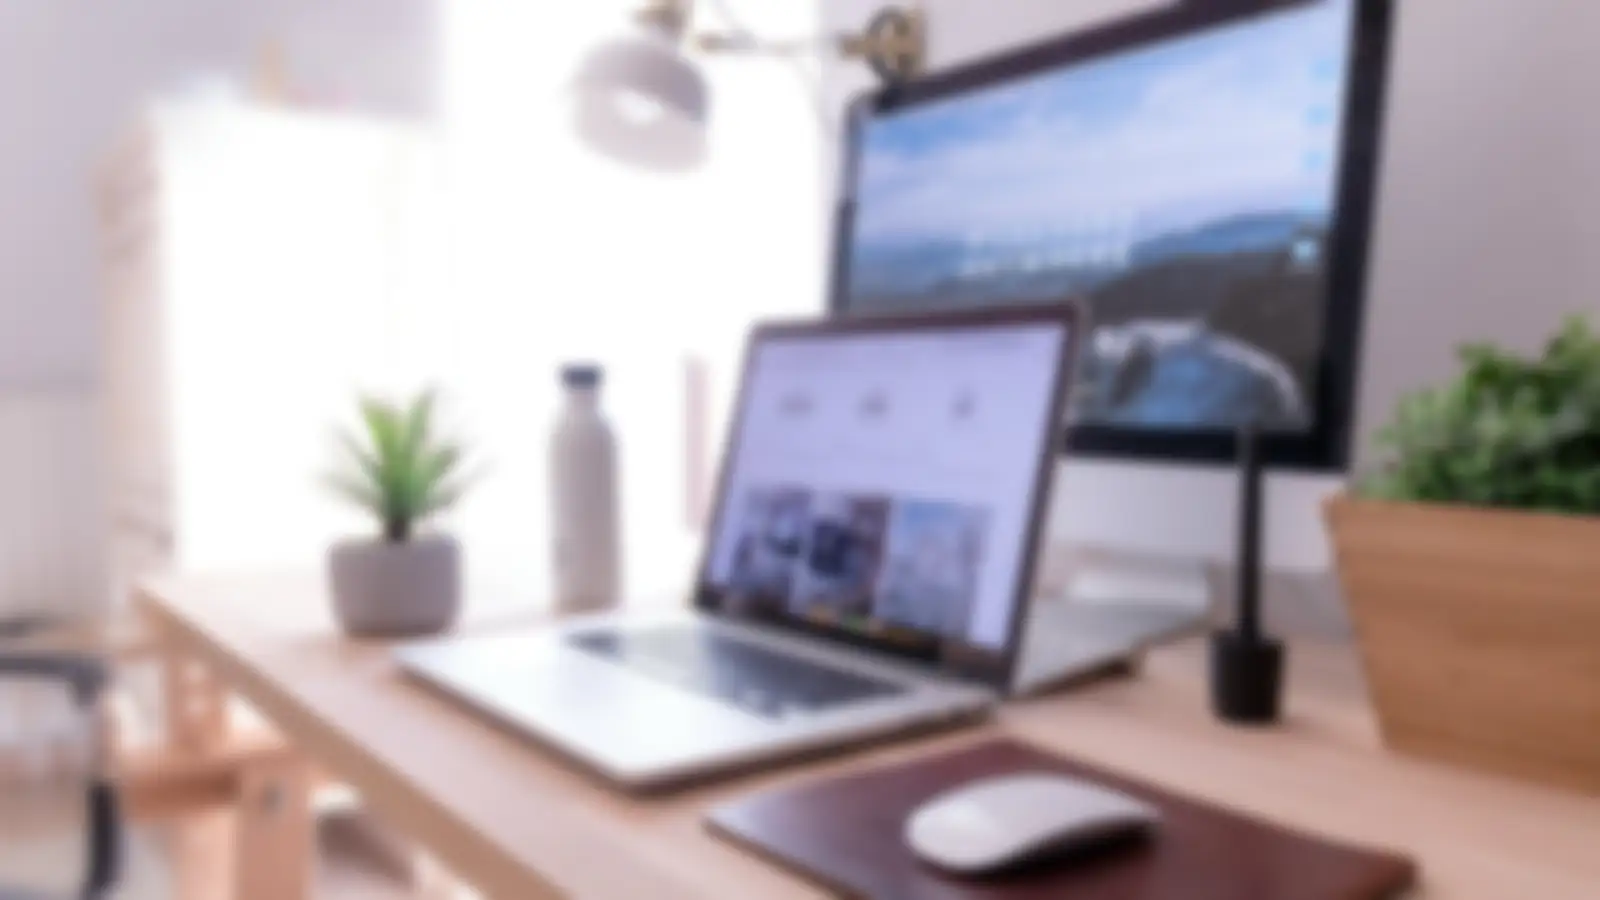
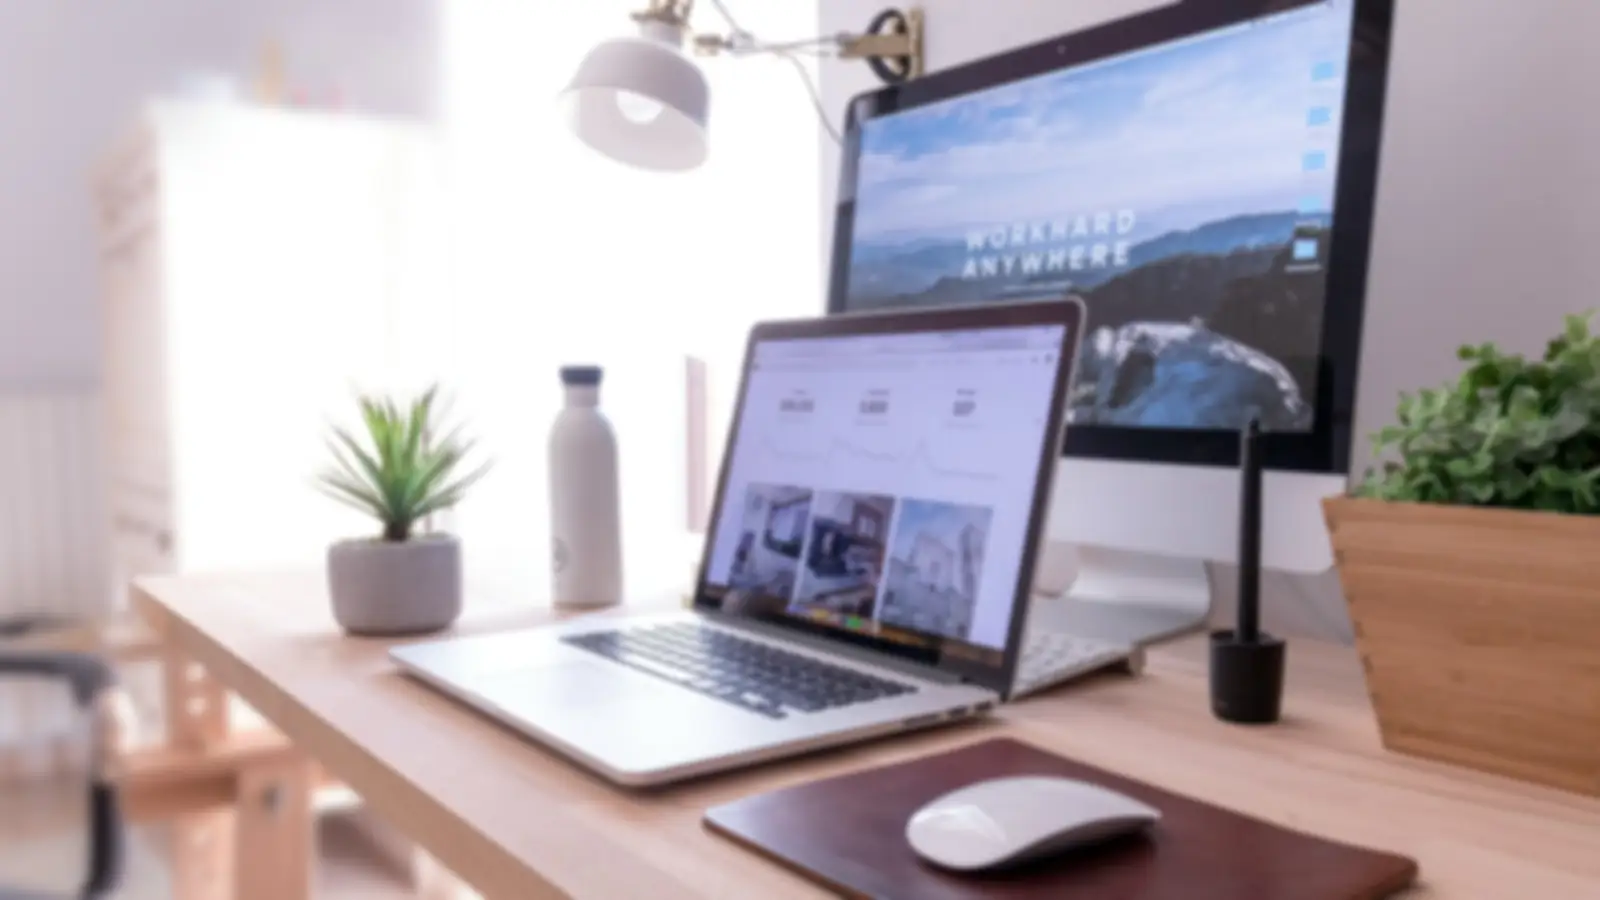
Image de fond du haut de page plus visible
Flou fortement reduit et image pleinement opaque : on reconnait l'ecran
et l'ordinateur portable qui affichent un site. Voile blanc concentre a
gauche (sous le titre) et en bas, plus marque sur mobile pour garder
le texte lisible.

Claude-Session: https://claude.ai/code/session_01AF6NSjMUgrwhr26XzxbrPX

diff --git a/css/style.css b/css/style.css
@@ -212,9 +212,10 @@ em { font-style: italic; color: var(--accent); }
 /* ---------- 8. Hero ---------- */
 .hero { padding: calc(var(--header-h) + 48px) 0 0; position: relative; isolation: isolate; overflow: hidden; }
 /* Image de fond floutée qui évoque le métier, avec un léger zoom lent */
-.hero-bg { position: absolute; inset: 0 0 auto 0; height: 100%; z-index: -2; overflow: hidden; pointer-events: none; }
-.hero-bg img { width: 100%; height: 100%; object-fit: cover; opacity: .7; transform: scale(1.08); animation: hero-zoom 30s ease-in-out infinite alternate; }
-.hero-bg::after { content: ""; position: absolute; inset: 0; background: linear-gradient(90deg, color-mix(in srgb, var(--bg) 55%, transparent) 0%, color-mix(in srgb, var(--bg) 25%, transparent) 70%), linear-gradient(180deg, transparent 55%, var(--bg) 95%); }
+.hero-bg { position: absolute; inset: 0 0 auto 0; height: min(100%, 980px); z-index: -2; overflow: hidden; pointer-events: none; }
+.hero-bg img { width: 100%; height: 100%; object-fit: cover; opacity: 1; transform: scale(1.08); animation: hero-zoom 30s ease-in-out infinite alternate; }
+.hero-bg::after { content: ""; position: absolute; inset: 0; background: linear-gradient(90deg, color-mix(in srgb, var(--bg) 72%, transparent) 0%, color-mix(in srgb, var(--bg) 45%, transparent) 45%, color-mix(in srgb, var(--bg) 5%, transparent) 100%), linear-gradient(180deg, transparent 45%, var(--bg) 90%); }
+@media (max-width: 700px) { .hero-bg::after { background: linear-gradient(180deg, color-mix(in srgb, var(--bg) 55%, transparent) 0%, color-mix(in srgb, var(--bg) 70%, transparent) 55%, var(--bg) 92%); } }
 @keyframes hero-zoom { to { transform: scale(1.18) translate3d(-1.5%, -1%, 0); } }
 /* Fond dégradé mauve / jaune qui ondule lentement derrière le titre */
 .hero::before {
